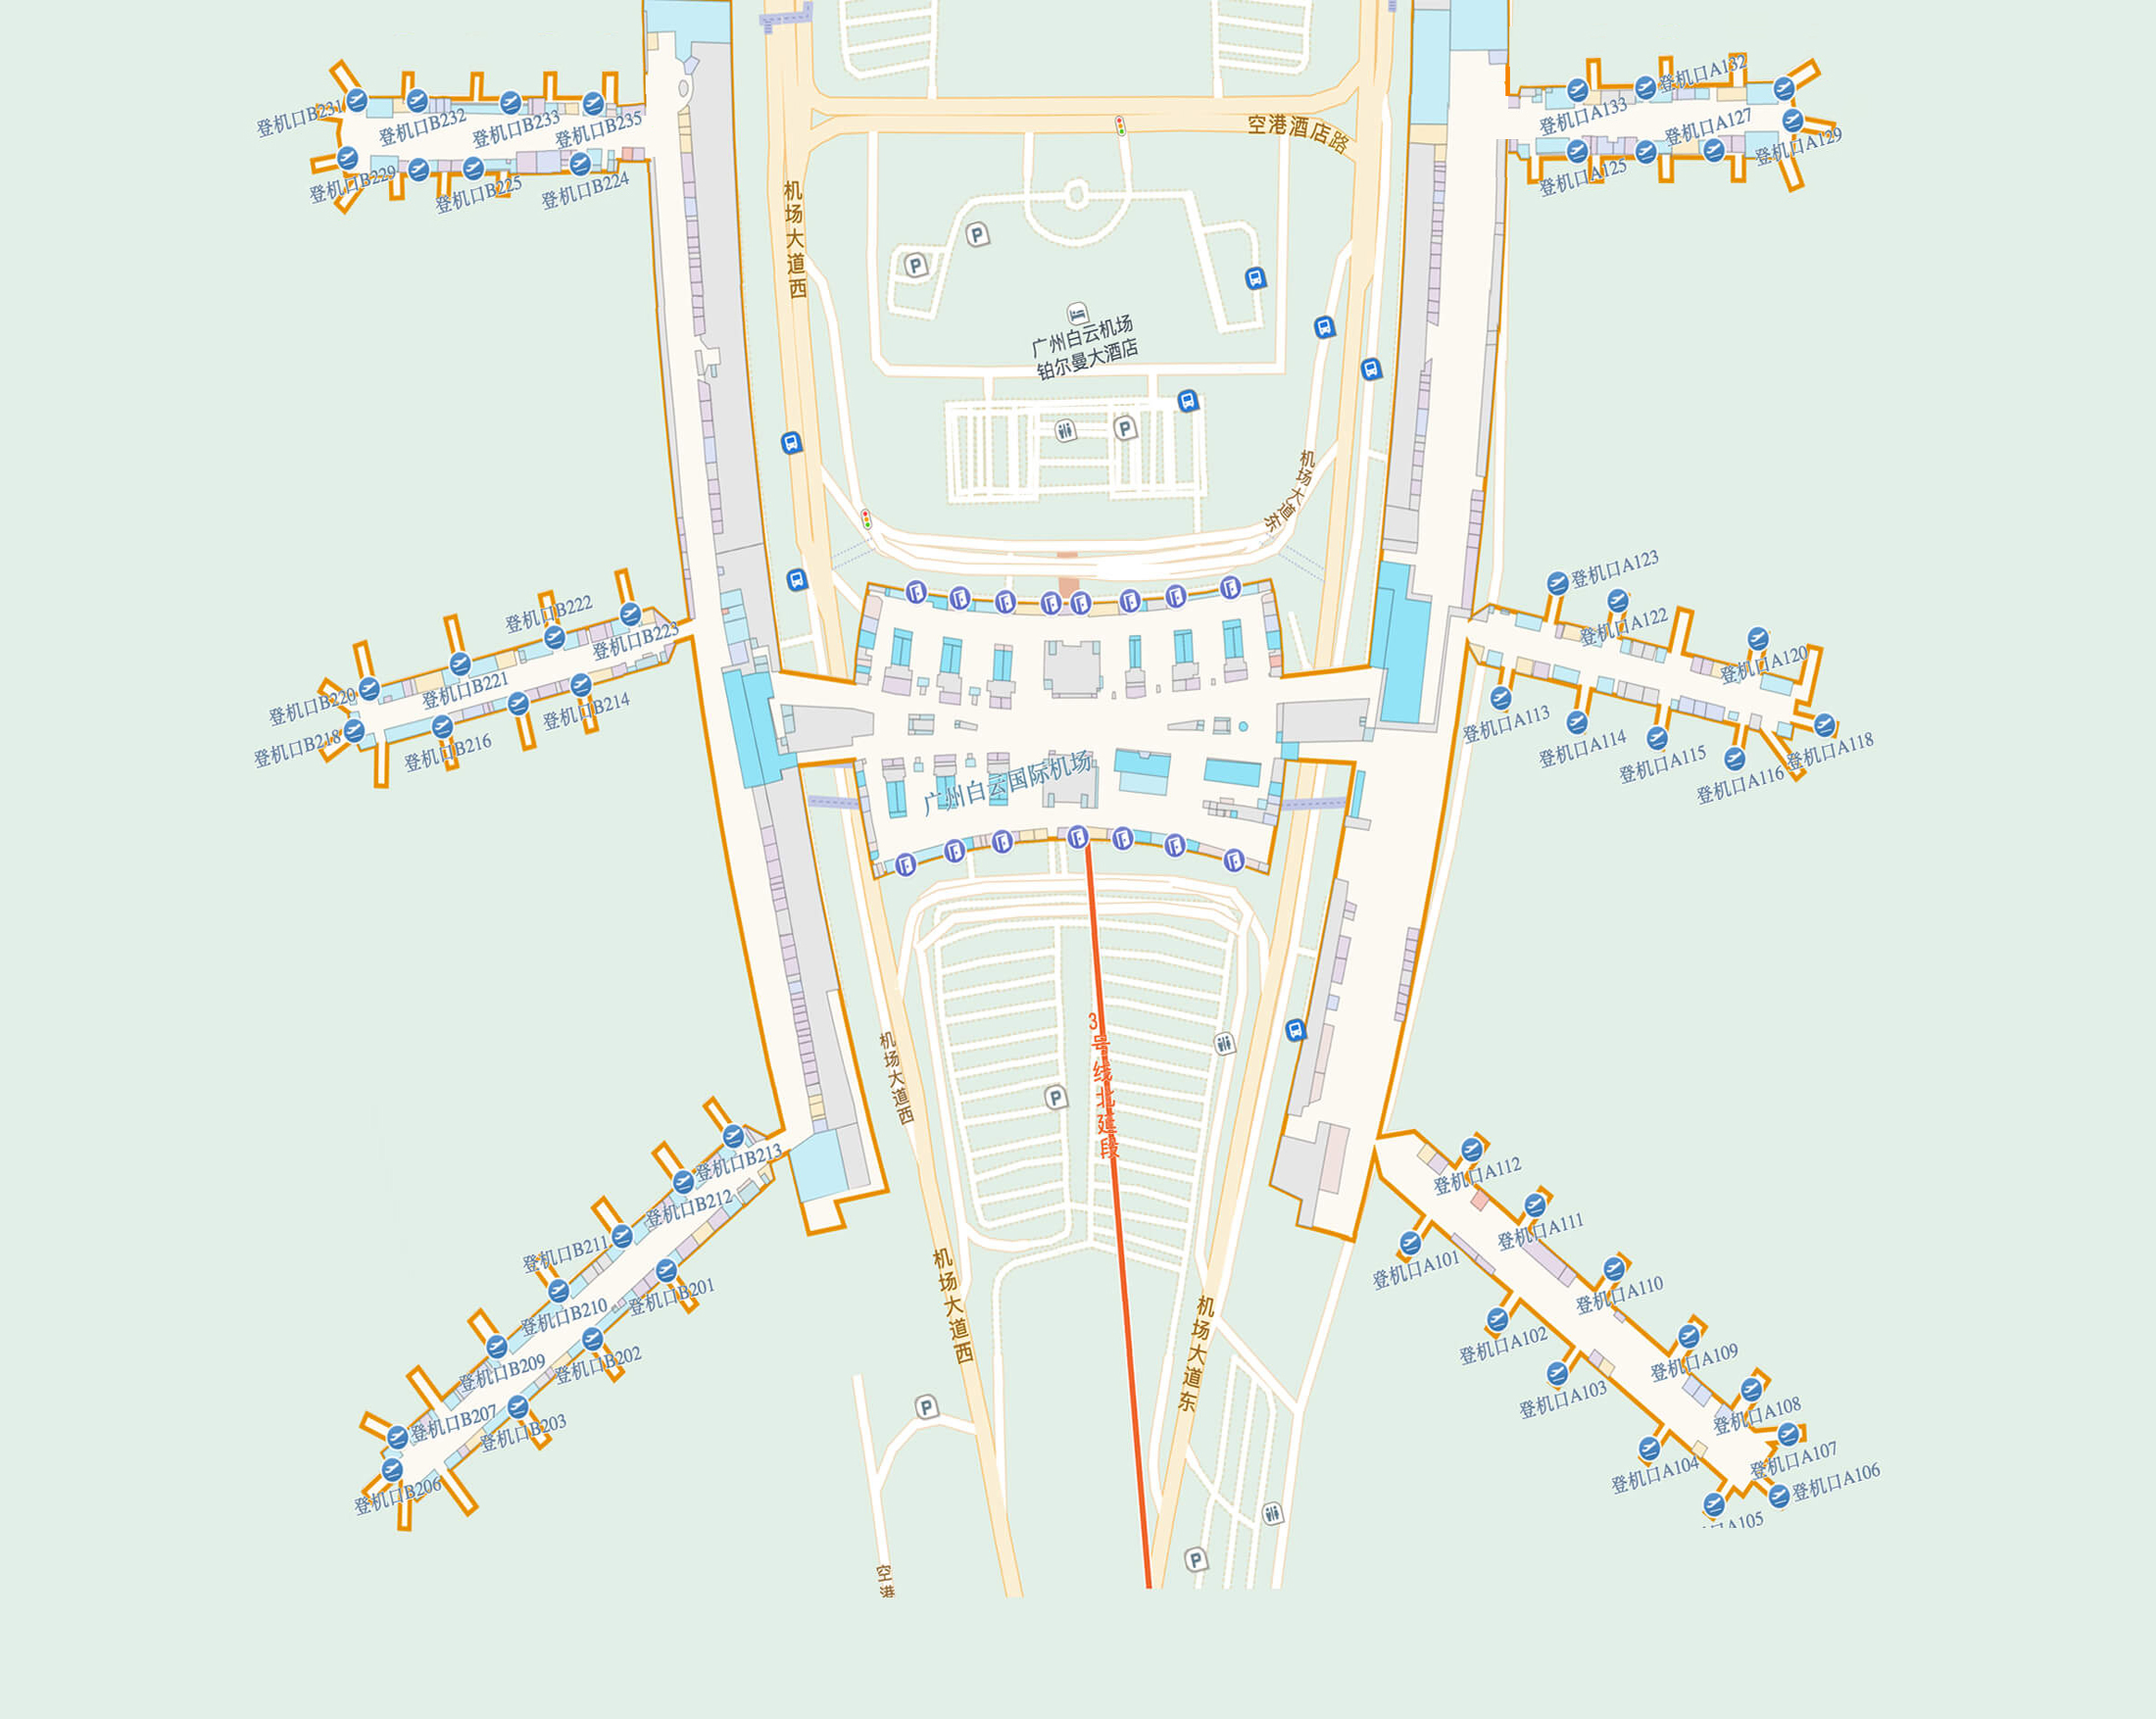
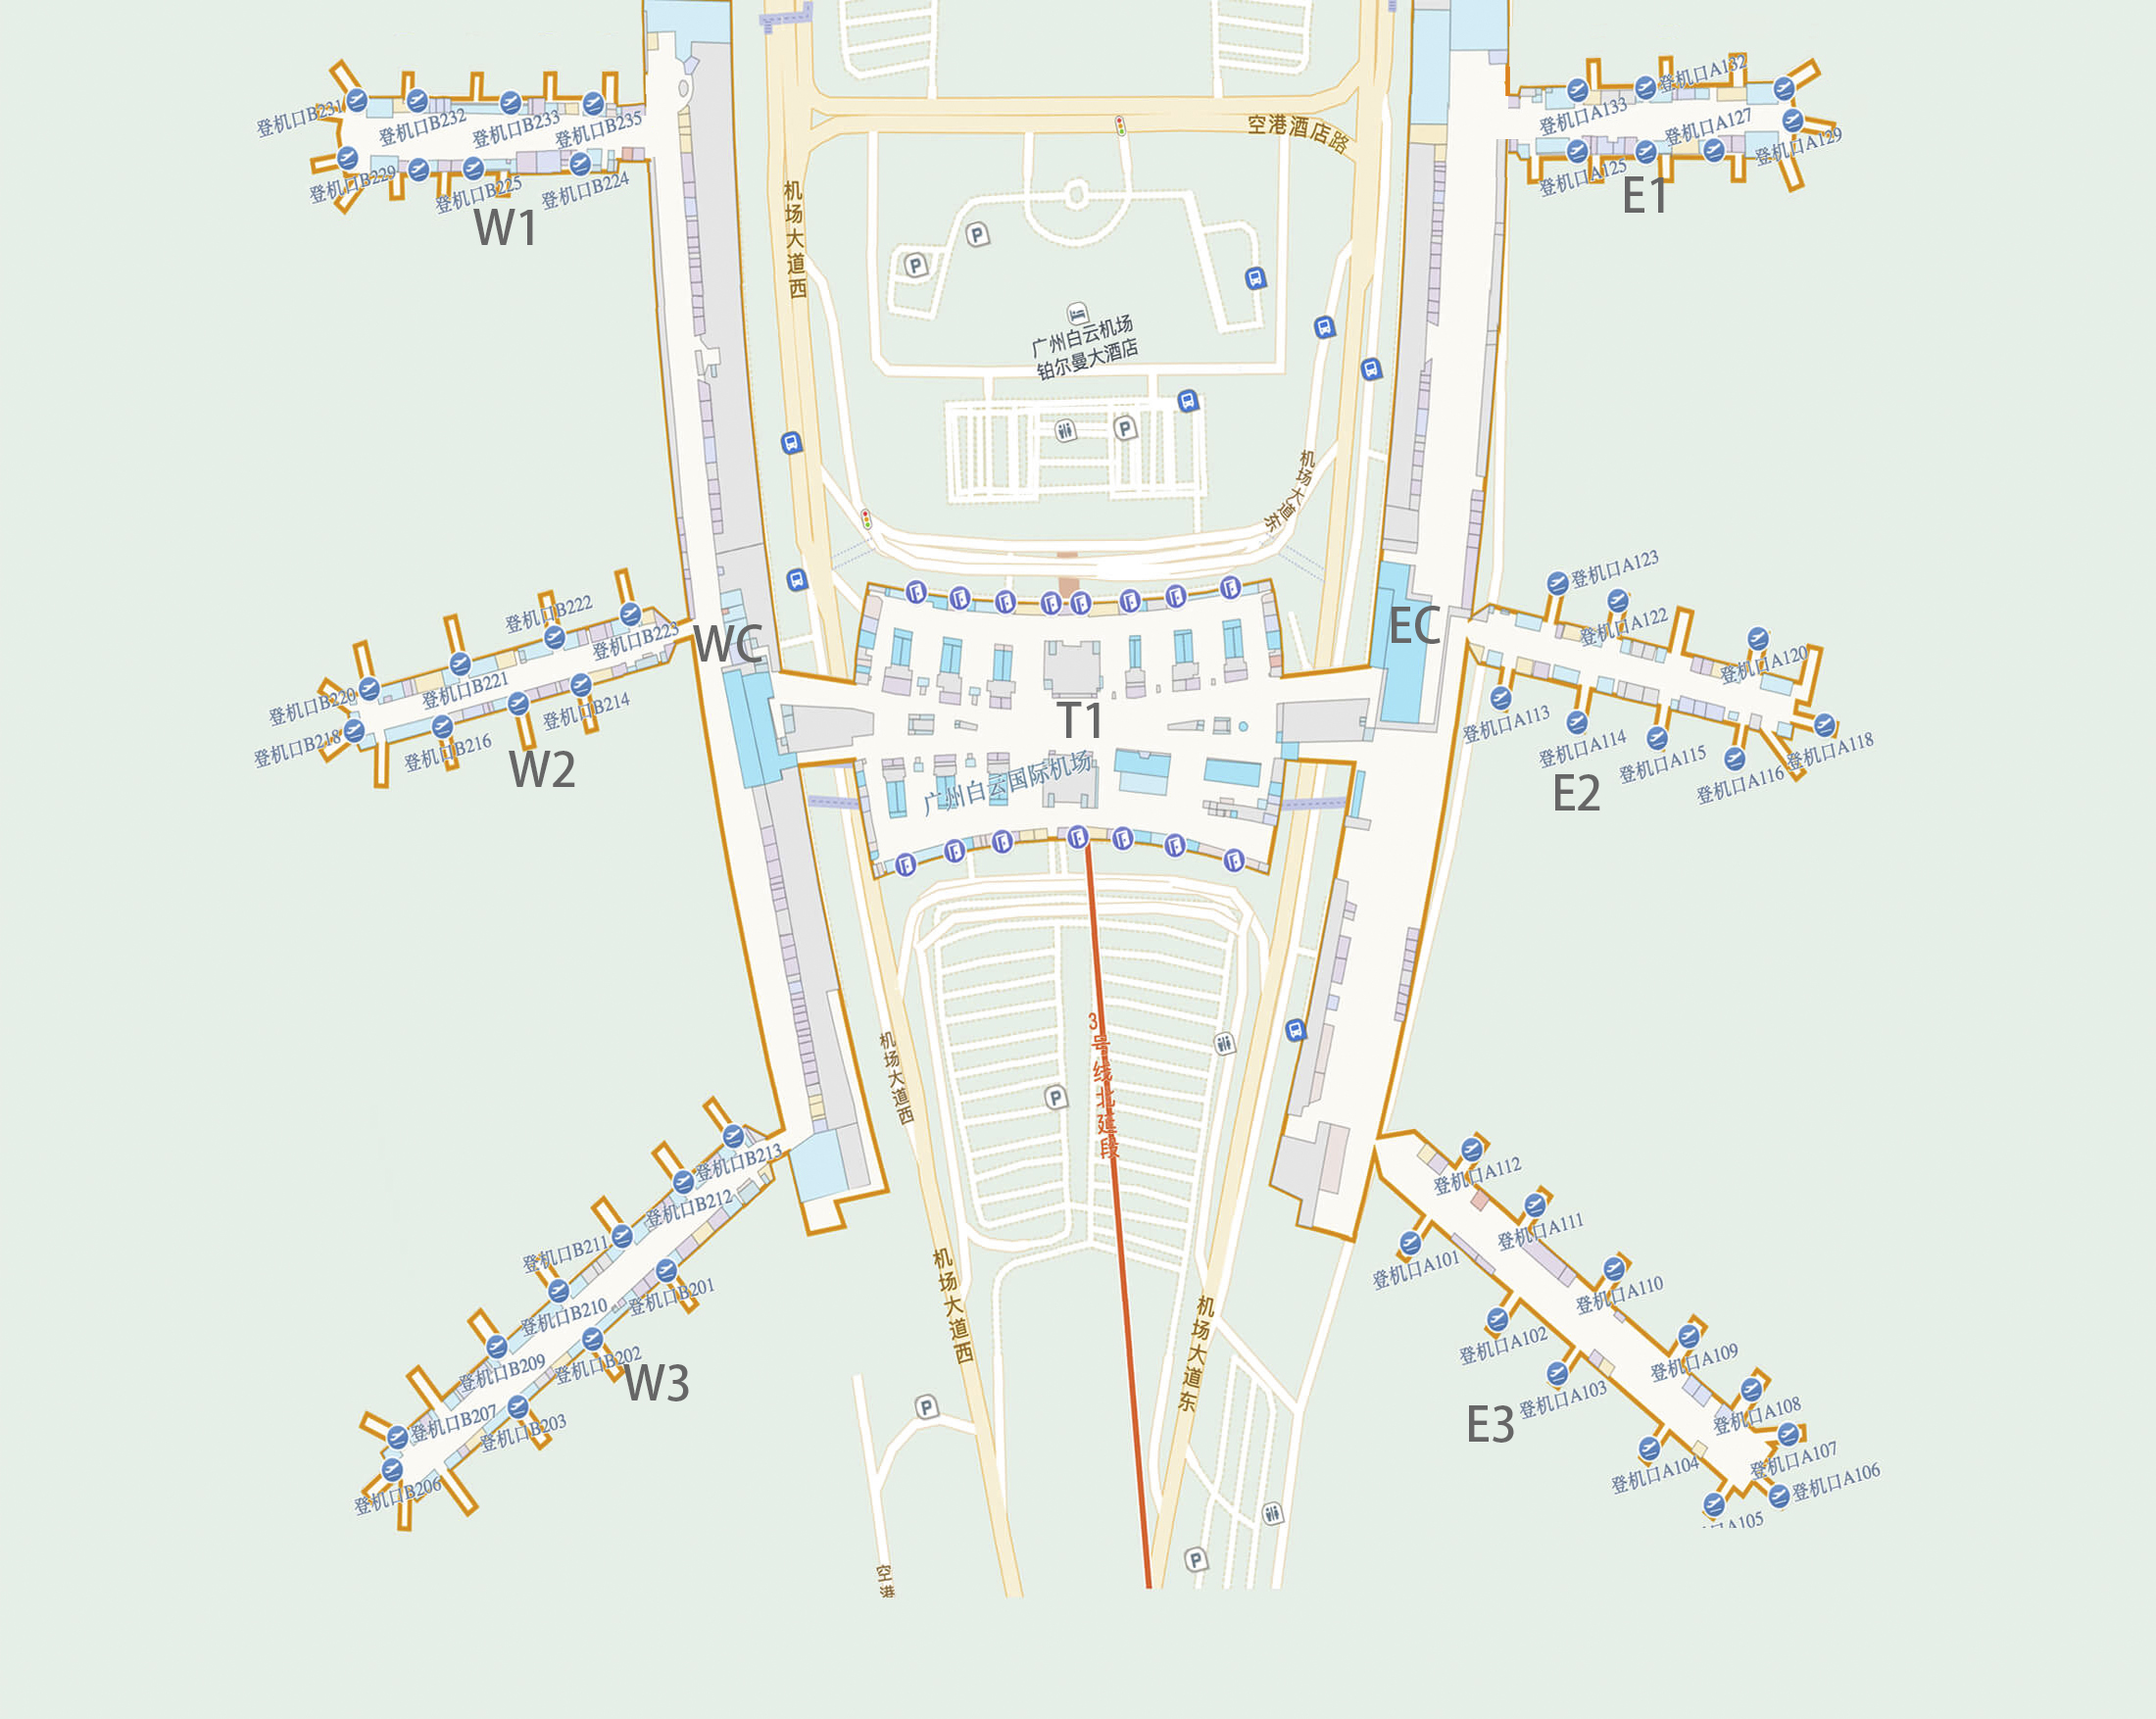
feat: 修改文字、添加点击跳转
航站楼文字修改&增加点击修改背景位置&修改背景地图标识

diff --git a/src/api/index.js b/src/api/index.js
@@ -35,42 +35,42 @@ export default {
             state: 0 // 0：normal    1：warning   2：danger
           },
           W1: {
-            name: 'W1 主航站楼',
+            name: 'W1 候机区',
             pNum: 0,
             state: 0
           },
           W2: {
-            name: 'W2 主航站楼',
+            name: 'W2 候机区',
             pNum: 0,
             state: 0
           },
           W3: {
-            name: 'W3 主航站楼',
+            name: 'W3 候机区',
             pNum: 0,
             state: 0
           },
           WC: {
-            name: 'WC 主航站楼',
+            name: 'WC 西侧通道',
             pNum: 0,
             state: 0
           },
           E1: {
-            name: 'E1 主航站楼',
+            name: 'E1 候机区',
             pNum: 0,
             state: 0
           },
           E2: {
-            name: 'E2 主航站楼',
+            name: 'E2 候机区',
             pNum: 0,
             state: 0
           },
           E3: {
-            name: 'E3 主航站楼',
+            name: 'E3 候机区',
             pNum: 0,
             state: 0
           },
           EC: {
-            name: 'EC 主航站楼',
+            name: 'EC 东侧通道',
             pNum: 0,
             state: 0
           }

diff --git a/src/utils/node-handleFiles.js b/src/utils/node-handleFiles.js
@@ -23,42 +23,42 @@ function getHeatmapData(timeStamp) {
           state: 0 // 0：normal    1：warning   2：danger
         },
         W1: {
-          name: 'W1 主航站楼',
+          name: 'W1 候机区',
           pNum: 0,
           state: 0
         },
         W2: {
-          name: 'W2 主航站楼',
+          name: 'W2 候机区',
           pNum: 0,
           state: 0
         },
         W3: {
-          name: 'W3 主航站楼',
+          name: 'W3 候机区',
           pNum: 0,
           state: 0
         },
         WC: {
-          name: 'WC 主航站楼',
+          name: 'WC 西侧通道',
           pNum: 0,
           state: 0
         },
         E1: {
-          name: 'E1 主航站楼',
+          name: 'E1 候机区',
           pNum: 0,
           state: 0
         },
         E2: {
-          name: 'E2 主航站楼',
+          name: 'E2 候机区',
           pNum: 0,
           state: 0
         },
         E3: {
-          name: 'E3 主航站楼',
+          name: 'E3 候机区',
           pNum: 0,
           state: 0
         },
         EC: {
-          name: 'EC 主航站楼',
+          name: 'EC 东侧通道',
           pNum: 0,
           state: 0
         }

diff --git a/src/pages/main/leftPanels/ctrlPanel/index.vue b/src/pages/main/leftPanels/ctrlPanel/index.vue
@@ -40,6 +40,26 @@
     },
     methods: {
       showDetails(section){
+        const PAGEWIDTH = document.body.scrollWidth;
+        const PAGEHEIGHT = document.body.scrollHeight;
+        switch (section) {
+          case 'T1' : window.scrollTo(PAGEWIDTH / 5, PAGEHEIGHT / 4);
+            break;
+          case 'W1' : window.scrollTo(0, 0);
+            break;
+          case 'W2' : window.scrollTo(0, PAGEHEIGHT / 4);
+            break;
+          case 'W3' : window.scrollTo(0, PAGEHEIGHT);
+            break;
+          case 'WC' : window.scrollTo(0, PAGEHEIGHT / 4);
+            break;
+          case 'E1' : window.scrollTo(PAGEWIDTH, 0);
+            break;
+          case 'E2' : window.scrollTo(PAGEWIDTH / 2, PAGEHEIGHT / 4);
+            break;
+          default: break;
+        }
+
         this.$router.push({name: 'sectionDetails', params: {section: section}});
       }
     }
